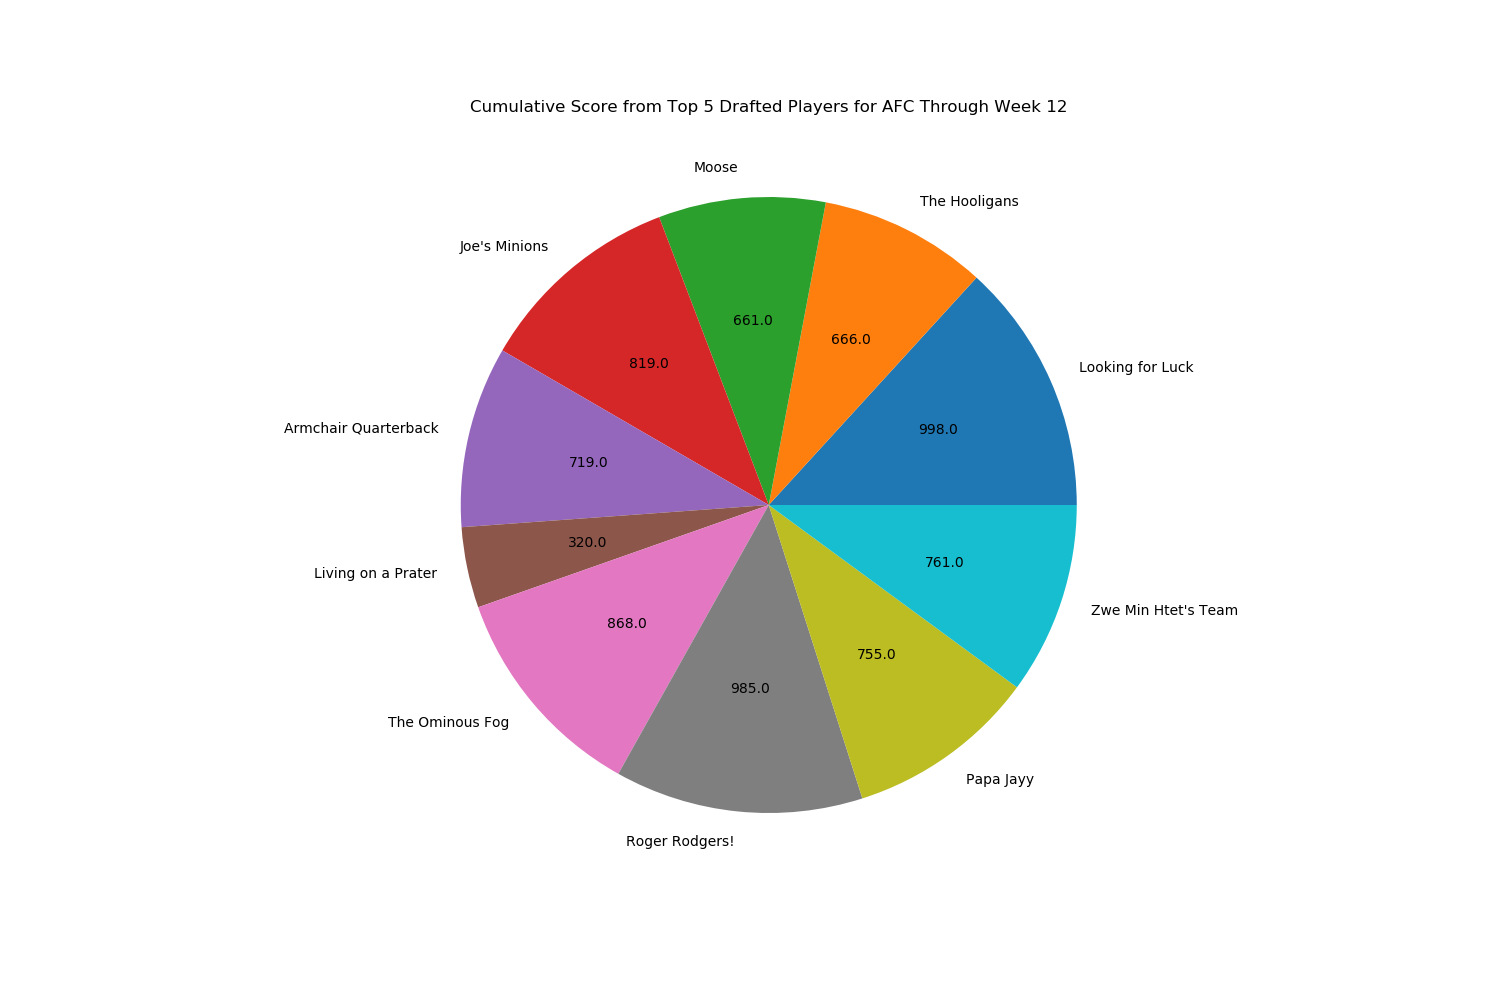
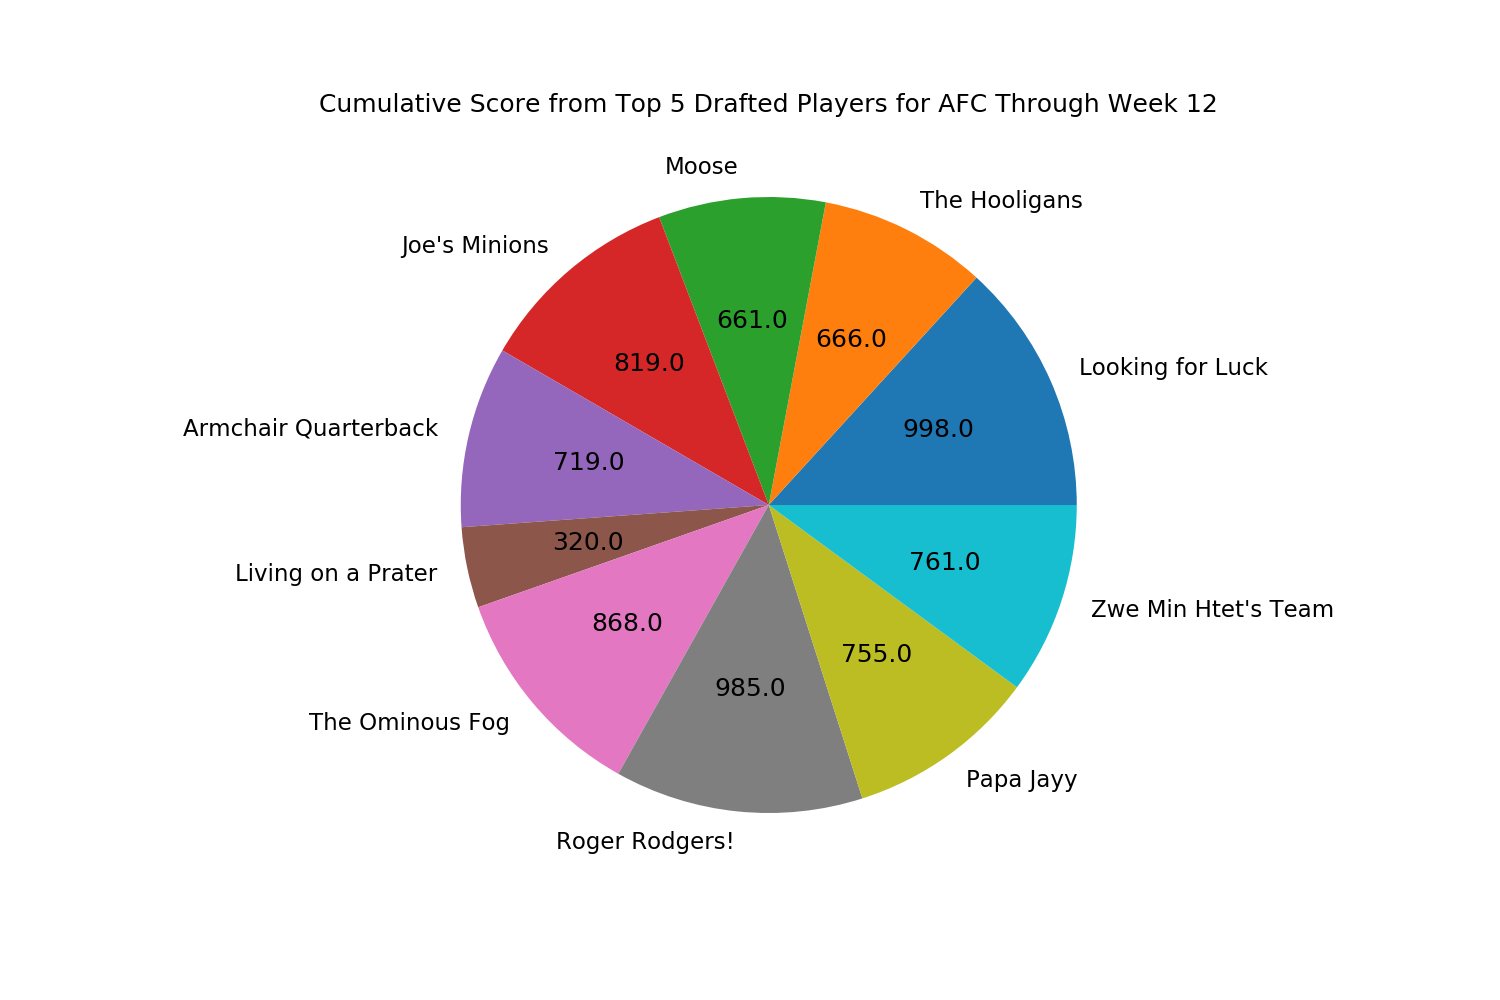
modified visualizations

diff --git a/data_vis/LeagueVisGen.py b/data_vis/LeagueVisGen.py
@@ -7,11 +7,13 @@ import os
 from matplotlib.cm import get_cmap
 from models import DATACONTRACT
 import numpy as np
+from loguru import logger
 
 
 color_wheel = "Accent"
 cmap = get_cmap(color_wheel)
 colors = cmap.colors
+sns.set_context('talk')
 
 
 def plot_real_score_by_week(league: League, save=False):
@@ -145,7 +147,6 @@ def plot_player_breakdown_for_season(league: League, save=False):
         plt.show()
 
 
-
 def plot_draft_value_by_team(league: League, max_draft, thru_week: int, save=False):
     # f, ax = plt.subplots(figsize=(20, 10))
     league.draft_info[DATACONTRACT.DRAFTORDER] = pd.to_numeric(league.draft_info[DATACONTRACT.DRAFTORDER])
@@ -175,11 +176,62 @@ def plot_draft_value_by_team(league: League, max_draft, thru_week: int, save=Fal
         plt.show()
 
 
+def plot_cum_injury_score_by_team(league: League, save=False):
+    # I dont think I have player status... so can't really get "out"
+    pass
+
+def plot_cum_real_score_by_league_through_week(leagues: pd.DataFrame, week, save=False):
+    leagues.sort_values(by=['Week'])
+    grouped = leagues.groupby(DATACONTRACT.LEAGUE_NAME)
+    fig, ax = plt.subplots(figsize=(15, 7))
+    ax.set_prop_cycle(color=colors)
+    for name, group in grouped:
+        group['CumScore'] = group[DATACONTRACT.REAL_SCORE].cumsum()
+        group.plot(x='Week', y='CumScore', ax=ax, label=name)
+    plot_title = f'Cumulative Total Score by Week Between Leagues'
+    plt.title(plot_title)
+    plt.xlabel('Week')
+    plt.ylabel('Cumulative Score')
+    plt.legend(loc='upper left')
+
+    if save:
+        manual_save("comparison", plot_title)
+    else:
+        plt.show()
+
+
+def plot_real_score_by_league_through_week(leagues: pd.DataFrame, week, save=False):
+    fig, ax = plt.subplots(figsize=(15, 7))
+    ax.set_prop_cycle(color=colors)
+    g = leagues.groupby([DATACONTRACT.LEAGUE_NAME, DATACONTRACT.WEEK])[DATACONTRACT.REAL_SCORE].sum().unstack(DATACONTRACT.LEAGUE_NAME)
+    g.plot(ax=ax)
+    plot_title = f'Total Score by Week Between Leagues'
+    plt.title(plot_title)
+    plt.xlabel('Week')
+    plt.ylabel('Cumulative Score')
+    plt.legend(loc='upper left')
+    if save:
+        manual_save('comparison', plot_title)
+    else:
+        plt.show()
+
+
+def manual_save(folder, filename):
+    dir_path = os.path.join('export', 'plots', folder)
+    if not os.path.exists(dir_path):
+        os.mkdir(dir_path)
+    fpath = os.path.join('export', 'plots', folder, filename)
+    logger.debug(f'Saving plot to {fpath}')
+    plt.savefig(fpath)
+    plt.close()
+
+
 def save_plot(league: League, name):
     name = name.replace('.', '')
     dir_path = os.path.join('export', 'plots', league.name)
     if not os.path.exists(dir_path):
         os.mkdir(dir_path)
     fpath = os.path.join('export', 'plots', league.name, name)
+    logger.debug(f'Saving plot to {fpath}')
     plt.savefig(fpath)
     plt.close()

diff --git a/Main.py b/Main.py
@@ -31,17 +31,24 @@ NFC.update(current_week)
 # plot_player_breakdown_for_all_teams(AFC)
 # plot_player_breakdown_for_season(AFC)
 
-plot_draft_value_by_team(AFC, 5, 12, save=True)
-plot_draft_value_by_team(NFC, 5, 12, save=True)
+should_save = True
+
+plot_draft_value_by_team(AFC, 5, 12, save=should_save)
+plot_draft_value_by_team(NFC, 5, 12, save=should_save)
+
+plot_cum_real_score_by_week(AFC, save=should_save)
+plot_cum_real_score_by_week(NFC, save=should_save)
+
+plot_cum_real_vs_proj_by_week(AFC, save=should_save)
+plot_cum_real_vs_proj_by_week(NFC, save=should_save)
 
 
-
-AFC.score_info['League'] = 'AFC'
-NFC.score_info['League'] = 'NFC'
+AFC.score_info[DATACONTRACT.LEAGUE_NAME] = 'AFC'
+NFC.score_info[DATACONTRACT.LEAGUE_NAME] = 'NFC'
 Total_DF = AFC.score_info.append(NFC.score_info)
-Total_DF.sort_values(by=['Week'])
-g = Total_DF.groupby(['League', 'Week'])['RealScore'].sum().unstack('League')
 
-for group in g:
-    print(group.sum())
-g.plot()
+plot_real_score_by_league_through_week(Total_DF, 5, save=should_save)
+plot_cum_real_score_by_league_through_week(Total_DF, 5, save=should_save)
+# Total_DF.sort_values(by=['Week'])
+# g = Total_DF.groupby(['League', 'Week'])['RealScore'].sum().unstack('League')
+# g.plot()
